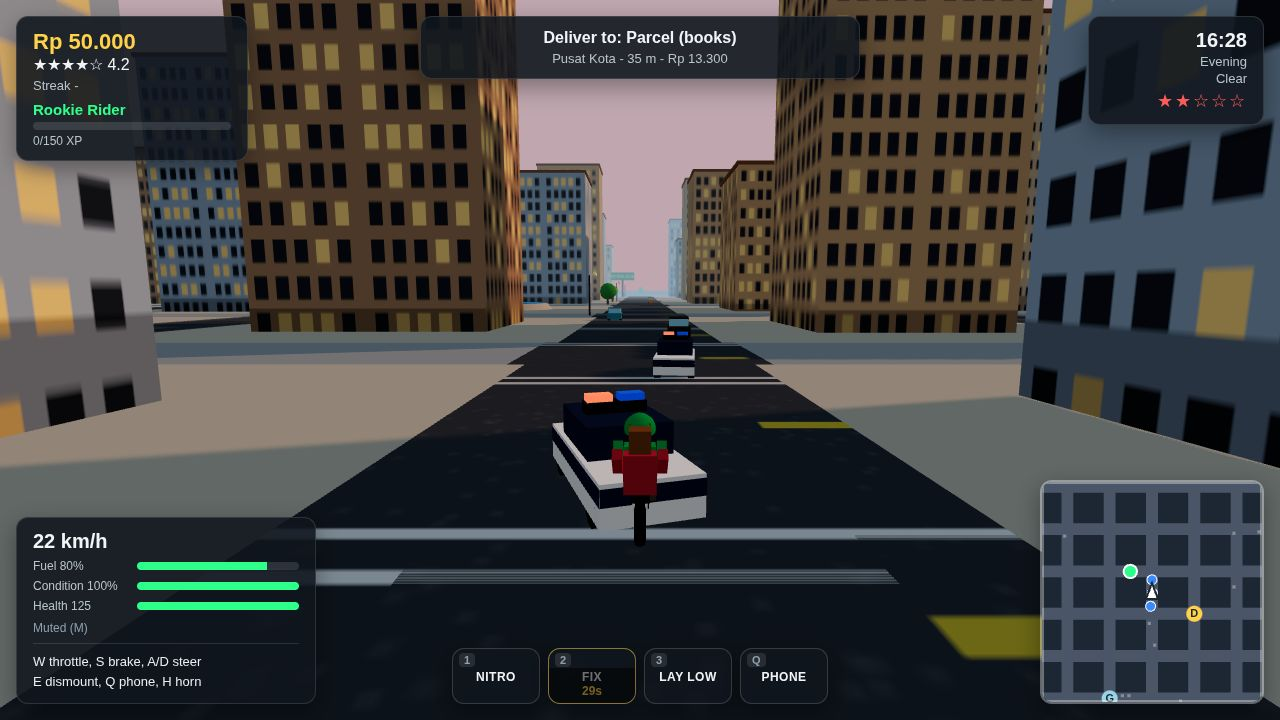
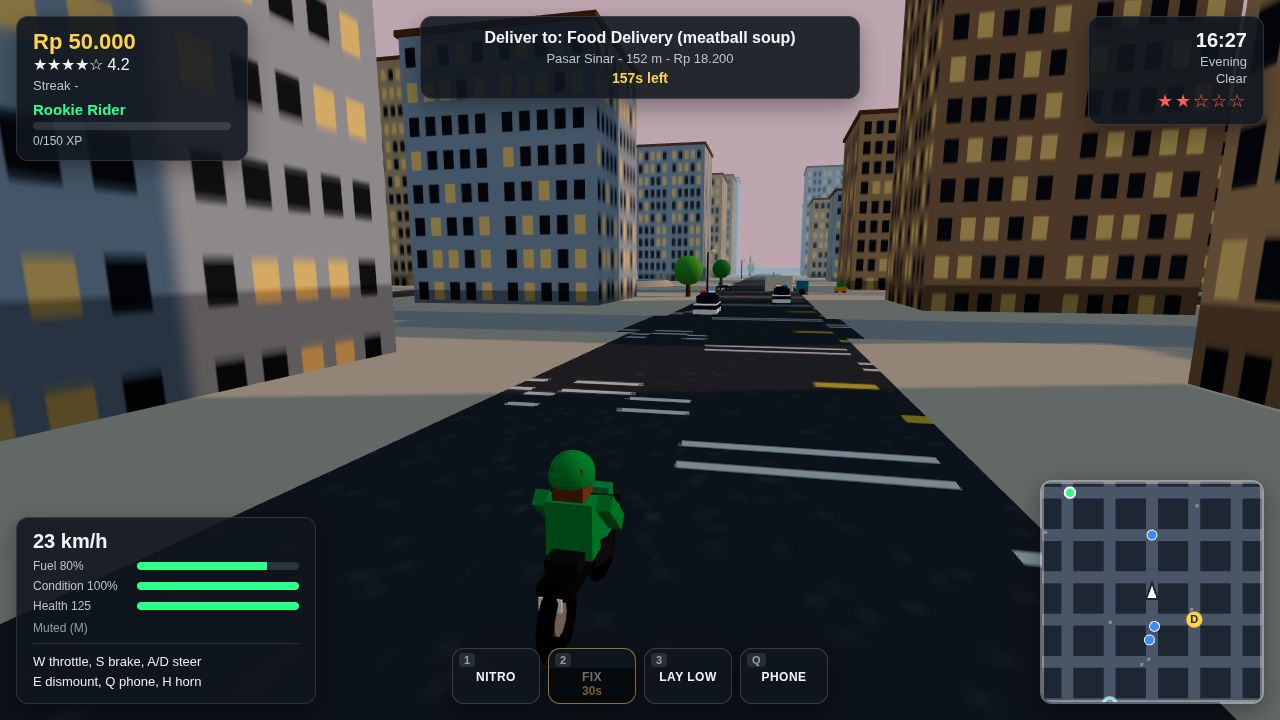
Re-shoot cover: rider in focus, police held far down the road
Krstan: the old cover merged the rider with a close police car. New
staging: no passenger hiding the rider, closer chase camera (4.8) locked
at a 3/4 rear angle (new camera.setShotYaw), green bike paint, parcel /
food / rush order only, and police cars HELD (new per-car held flag in
police.js, light bars still flashing) far ahead so they read as small
and distant, never near the rider. Verified: 1280x720, 97,068 bytes,
0 console errors, no text overflow.

diff --git a/game/src/shots.js b/game/src/shots.js
@@ -20,11 +20,13 @@ export function createShots(game) {
   }
 
   function stageCover() {
-    // The fullest play view: riding with a passenger, an active order, two
-    // police cars on the tail, traffic around, late afternoon light.
+    // Rider-first cover: the ojek character large and centered, police kept
+    // far down the road — visible, but never near or overlapping the rider.
     game.daycycle.setHour(16.4);
     game.daycycle.setWeather('clear');
-    game.player.setPassenger(true);
+    // No passenger: from the chase cam a passenger sits between the camera
+    // and the rider and hides him. The order below is a parcel anyway.
+    game.player.setPassenger(false);
     // Unlock the active skills so the HUD skill bar shows them live:
     // Nitro and Lay Low ready, Quick Fix mid-cooldown.
     game.profile.skills = { speed: 1, business: 1, street: 2 };
@@ -33,22 +35,40 @@ export function createShots(game) {
     game.skillCd.fix = 30;
     const road = CITY.roadLine(5);
     placeOnRoad(road, CITY.roadLine(4) - 40, 0);
-    game.player.state.speed = 16;
-    const order = game.orders.accept(game.orders.board[0].id, game.player.pos);
+    // Green paint so the bike reads as one distinct shape under the rider.
+    if (game.player.state.entry) {
+      game.player.setEntry({ ...game.player.state.entry, paint: 0x2e9e5b });
+    }
+    game.player.state.speed = 9;
+    // Closer chase camera so the rider fills the frame (default is 7),
+    // locked at a 3/4 rear angle so the bike's side reads instead of being
+    // hidden behind the rider's body.
+    game.camera.setDistance(4.8);
+    game.camera.setShotYaw(0.38);
+    // A parcel/food/rush order (no passenger expected on the bike).
+    const board = game.orders.board;
+    const picked = board.find((o) => o.type === 'paket' || o.type === 'makanan' || o.type === 'kilat') || board[0];
+    const order = game.orders.accept(picked.id, game.player.pos);
     if (order) {
       // Skip to the delivery leg so the beacon and HUD show the destination.
       order.stage = 'deliver';
       game.orders.setBeacon(order.dest, 0xffd24a);
     }
     game.police.setWanted(2);
-    // Put the chase in frame: two police cars head-on ahead, one chasing behind.
+    // Police FAR down the road only, HELD in place: two cars head-on at 48
+    // and 64 ahead, one behind the camera. Held cars never chase, so the
+    // gap is deterministic — the rider closes ~10-18 during the settle and
+    // the cars still read as distant, small, and clearly separated from
+    // him. Their light bars keep flashing.
     const pz = game.player.pos.z;
     const cars = game.police.cars;
-    if (cars[0]) { cars[0].pos.set(road + 3, 0, pz + 32); cars[0].heading = Math.PI; cars[0].speed = 10; }
-    if (cars[1]) { cars[1].pos.set(road - 3, 0, pz + 48); cars[1].heading = Math.PI; cars[1].speed = 10; }
-    if (cars[2]) { cars[2].pos.set(road, 0, pz - 18); cars[2].heading = 0; cars[2].speed = 12; }
-    game.traffic.spawnVehicle({ vertical: true, line: road, dir: 1, along: pz + 70 });
-    game.traffic.spawnVehicle({ vertical: true, line: road, dir: -1, along: pz + 60 });
+    if (cars[0]) { cars[0].pos.set(road + 3, 0, pz + 48); cars[0].heading = Math.PI; cars[0].speed = 0; cars[0].held = true; }
+    if (cars[1]) { cars[1].pos.set(road - 3, 0, pz + 64); cars[1].heading = Math.PI; cars[1].speed = 0; cars[1].held = true; }
+    if (cars[2]) { cars[2].pos.set(road, 0, pz - 60); cars[2].heading = 0; cars[2].speed = 0; cars[2].held = true; }
+    // Civilian life well ahead, never near the rider: one same-direction
+    // car pulling away, one oncoming car far enough out to stay clear.
+    game.traffic.spawnVehicle({ vertical: true, line: road, dir: 1, along: pz + 45 });
+    game.traffic.spawnVehicle({ vertical: true, line: road, dir: -1, along: pz + 90 });
     game.ui.banner('VIP Order', 'Deliver before time runs out', 4000);
   }
 

diff --git a/game/src/police.js b/game/src/police.js
@@ -109,30 +109,35 @@ export function createPolice(scene, city, audio) {
       const dist = Math.hypot(dx, dz);
       closest = Math.min(closest, dist);
       if (dist < 90) anyNear = true;
-      const targetHeading = Math.atan2(dx, dz);
-      let dh = targetHeading - c.heading;
-      while (dh > Math.PI) dh -= Math.PI * 2;
-      while (dh < -Math.PI) dh += Math.PI * 2;
-      const maxSpeed = 16 + wanted * 2.2;
-      c.heading += THREE.MathUtils.clamp(dh, -2.2 * dt, 2.2 * dt);
-      const want = dist > 4 ? maxSpeed : 0;
-      c.speed += (want - c.speed) * Math.min(1, dt * 1.5);
-      const prevX = c.pos.x;
-      const prevZ = c.pos.z;
-      c.pos.x += Math.sin(c.heading) * c.speed * dt;
-      c.pos.z += Math.cos(c.heading) * c.speed * dt;
-      const hit = city.resolveCircle(c.pos, 1.4);
-      const moved = Math.hypot(c.pos.x - prevX, c.pos.z - prevZ);
-      if (c.speed > 3 && moved < c.speed * dt * 0.3) {
-        c.stuck += dt;
-        if (c.stuck > 4) {
-          // Stuck on a building: respawn on a road near the player.
-          const p = city.randomRoadPoint(rng);
-          c.pos.set(p.x, 0, p.z);
+      // A held car (staged shots) stays exactly where it was placed: no
+      // steering, no movement, no stuck-respawn. Its light bar still
+      // flashes below, and the mesh still syncs to its position.
+      if (!c.held) {
+        const targetHeading = Math.atan2(dx, dz);
+        let dh = targetHeading - c.heading;
+        while (dh > Math.PI) dh -= Math.PI * 2;
+        while (dh < -Math.PI) dh += Math.PI * 2;
+        const maxSpeed = 16 + wanted * 2.2;
+        c.heading += THREE.MathUtils.clamp(dh, -2.2 * dt, 2.2 * dt);
+        const want = dist > 4 ? maxSpeed : 0;
+        c.speed += (want - c.speed) * Math.min(1, dt * 1.5);
+        const prevX = c.pos.x;
+        const prevZ = c.pos.z;
+        c.pos.x += Math.sin(c.heading) * c.speed * dt;
+        c.pos.z += Math.cos(c.heading) * c.speed * dt;
+        const hit = city.resolveCircle(c.pos, 1.4);
+        const moved = Math.hypot(c.pos.x - prevX, c.pos.z - prevZ);
+        if (c.speed > 3 && moved < c.speed * dt * 0.3) {
+          c.stuck += dt;
+          if (c.stuck > 4) {
+            // Stuck on a building: respawn on a road near the player.
+            const p = city.randomRoadPoint(rng);
+            c.pos.set(p.x, 0, p.z);
+            c.stuck = 0;
+          }
+        } else {
           c.stuck = 0;
         }
-      } else {
-        c.stuck = 0;
       }
       c.built.group.position.copy(c.pos);
       c.built.group.rotation.y = c.heading;

diff --git a/game/src/camera.js b/game/src/camera.js
@@ -8,6 +8,7 @@ import * as THREE from 'three';
 export function createCamera(camera, city) {
   let yawOffset = 0;
   let pitchOffset = 0;
+  let shotYaw = null; // locked orbit angle for staged shots; null = free
   let distance = 7;
   let trauma = 0;
   let fov = 62;
@@ -25,12 +26,15 @@ export function createCamera(camera, city) {
   return {
     addTrauma(amount) { trauma = Math.min(1, trauma + amount); },
     setDistance(d) { distance = d; },
+    setShotYaw(y) { shotYaw = y; },
     update(dt, target, heading, speedKmh, orbit, wheel) {
       yawOffset += orbit.x * 0.004;
       pitchOffset = THREE.MathUtils.clamp(pitchOffset + orbit.y * 0.002, -0.25, 0.45);
       // The orbit eases back to straight behind the player when untouched.
       if (Math.abs(orbit.x) < 0.01) yawOffset *= Math.max(0, 1 - dt * 1.2);
       if (Math.abs(orbit.y) < 0.01) pitchOffset *= Math.max(0, 1 - dt * 1.2);
+      // A staged shot locks the orbit angle (3/4 rear view) instead.
+      if (shotYaw !== null) yawOffset = shotYaw;
       if (wheel !== 0) distance = THREE.MathUtils.clamp(distance + wheel * 0.003, 6, 14);
 
       const speedFactor = Math.min(1, speedKmh / 160);

diff --git a/game/src/main.js b/game/src/main.js
@@ -676,6 +676,7 @@ const game = {
   events,
   menus,
   ui,
+  camera: cameraRig,
   acceptOrder: (id) => orders.accept(id, player.pos),
   addXp,
   useSkill,

diff --git a/EVIDENCE.md b/EVIDENCE.md
@@ -8,22 +8,24 @@ Date: 2026-11-18 (WIB). Environment: Node v24.22.1, Playwright Chromium
 ## Local gate (run main.ts)
 
 - `MAKEFUN_OUTPUT_DIR=out node main.ts` run twice, byte-identical: PASS
-- game/ 2,386,404 bytes (<= 48 MiB), 37 entries (<= 993): PASS
+- game/ 2,388,226 bytes (<= 48 MiB), 37 entries (<= 993): PASS
 - game/index.html 2,383 bytes (<= 1 MiB): PASS
 - All references inside game/ (import map points at vendor three.js): PASS
 - 4 screenshots, each <= 256 KiB, 1280x720: PASS
-  (1-cover.jpg 104,033; 2-title.jpg 82,879; 3-skills.jpg 93,630;
+  (1-cover.jpg 97,068; 2-title.jpg 82,879; 3-skills.jpg 93,630;
   4-results.jpg 74,241 bytes)
-- dossier.json from buildDossier, 642,209 bytes (<= 1.5 MiB),
+- dossier.json from buildDossier, 632,943 bytes (<= 1.5 MiB),
   keys cover, images, schema, text: PASS
 - Full `makefun check` needs a transcripts bundle (made by the parent at
   submit time): NOT RUN here.
 
 ## Render (headless Chromium, ?shot=, seed 7)
 
-- cover: game running, HUD + minimap + active order + police + traffic
-  visible, skill bar live (Nitro/Lay Low unlocked, Quick Fix on cooldown),
-  0 console errors. PASS (screenshots/1-cover.jpg)
+- cover: rider-first framing (see "Cover re-shoot" below), HUD + minimap
+  + active food order with timer + 2 wanted stars + skill bar live
+  (Nitro/Lay Low ready, Quick Fix on cooldown), 2 police cars held far
+  down the road with flashing light bars, 0 console errors.
+  PASS (screenshots/1-cover.jpg)
 - title: title panel, 3 buttons, keys line, all inside the panel,
   0 console errors. PASS (screenshots/2-title.jpg)
 - skills: phone on the Skills tab, 3 branches x 3 tiers, locked/unlocked
@@ -85,6 +87,28 @@ Date: 2026-11-18 (WIB). Environment: Node v24.22.1, Playwright Chromium
 | Achievements + tutorial + codex | Yes | Not run |
 | Save/load localStorage | Yes | Smoke test |
 | Minimap + HUD + mission results | Yes | Render cover/results |
+
+## Cover re-shoot (2026-11-18, after Krstan's feedback)
+
+- Problem: in the first cover the rider visually merged with a police car
+  placed close ahead of him (white car body + white bike slab), so the
+  rider was hard to read. Krstan: focus on the ojek character; a police
+  car far away is fine, even better.
+- Fix (shots.js stageCover, camera.js, police.js, main.js):
+  no passenger (it hid the rider from the chase cam); closer chase
+  camera (distance 4.8, was 7) locked at a 3/4 rear angle
+  (new camera.setShotYaw) so the bike's side reads; green bike paint;
+  parcel/food/rush order only (no passenger expected); police cars
+  HELD (new per-car `held` flag in police.js: no chase movement, light
+  bar still flashes) at 48 and 64 ahead with a third behind the camera —
+  at shot time they read as small, distant, clearly separated from the
+  rider; civilian cars well ahead only.
+- Verified in headless Chromium (?shot=cover&seed=7): rider large,
+  centered, unmistakable subject; nearest police car ~35 units ahead,
+  no overlap or blending; HUD + minimap + skill bar visible, no text
+  overflow on any element; 1280x720, 97,068 bytes (<= 256 KiB);
+  0 console/page errors. PASS.
+- Other 3 screenshots untouched.
 
 ## Notes
 
